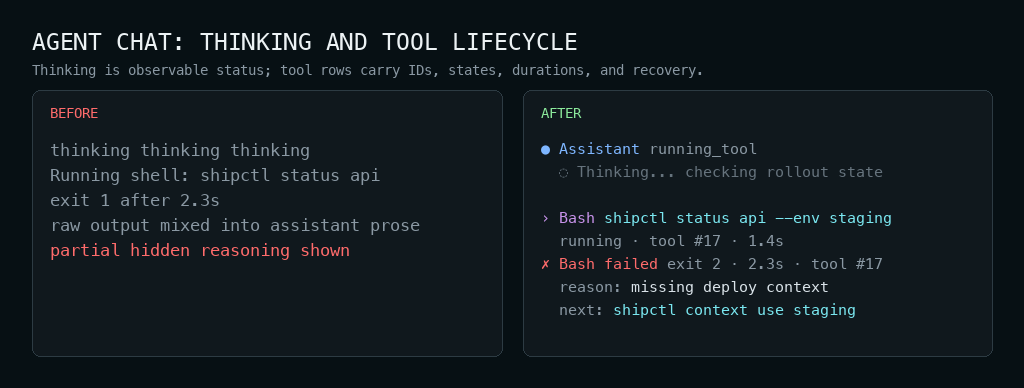
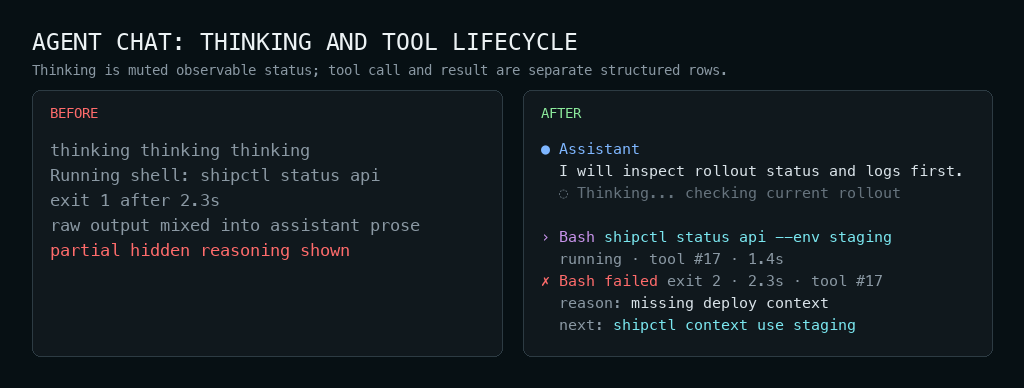
Fix Agent Chat thinking tool case

Changed region(s): [[0.5312, 0.5567, 0.875, 0.866], [0.125, 0.1546, 0.7188, 0.2165], [0.5312, 0.3711, 0.9375, 0.5258]]

diff --git a/CLI-Design/README.zh.md b/CLI-Design/README.zh.md
@@ -272,7 +272,7 @@ partial hidden reasoning shown to user
 
 **改造后**
 
-![Before / after: Thinking and Tool Use](./assets/readme-cases/agent-tools.png)
+![Before / after: Thinking and Tool Use](./assets/readme-cases/agent-tools.png?v=thinking-contract-20260703)
 
 不要展示 hidden chain-of-thought。spinner、动态点、小 tool icon 可以表示“正在运行”，但不能成为唯一状态信号。
 transcript 里仍然要有可观察摘要、受限 tool 输出、终态、duration、command identity，以及失败时的恢复路径。

diff --git a/CLI-Design/README.md b/CLI-Design/README.md
@@ -291,7 +291,7 @@ partial hidden reasoning shown to user
 
 **After**
 
-![Before / after: Thinking and Tool Use](./assets/readme-cases/agent-tools.png)
+![Before / after: Thinking and Tool Use](./assets/readme-cases/agent-tools.png?v=thinking-contract-20260703)
 
 Never expose hidden chain-of-thought. A spinner, dot, or small tool symbol can show that
 work is currently running, but it cannot be the only state signal. The transcript still
